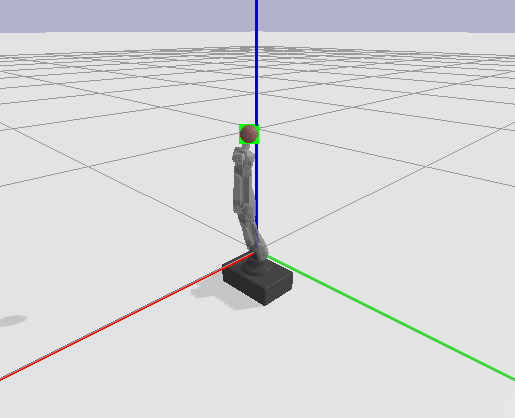
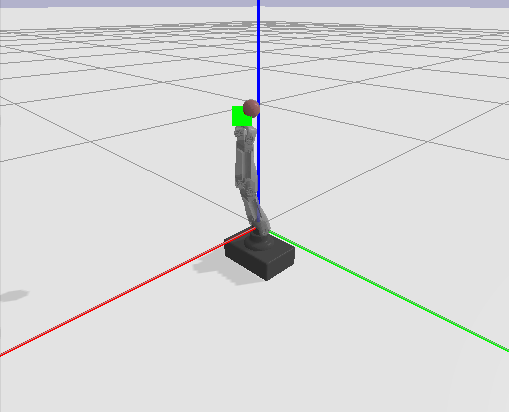
imageupdatevis

diff --git a/ee_evaluate.py b/ee_evaluate.py
@@ -206,7 +206,7 @@ def error_robot_state():
         init_angle=[-0.5, -0.3, -0.5, -0.2])
     
     debug_id = None
-    for idx in max_10_idx:
+    for idx in min_10_idx:
 
         if debug_id is not None:
             p.removeUserDebugItem(debug_id)
@@ -217,7 +217,7 @@ def error_robot_state():
         env.get_obs()
         # draw the ee center, model prediction
         debug_id = p.addUserDebugPoints([c_m[idx]], [[0, 1, 0]], pointSize=20)
-        time.sleep(1)
+        time.sleep(20)
 
 if __name__ == "__main__":
     device = torch.device('cuda' if torch.cuda.is_available() else 'cpu')
@@ -242,7 +242,7 @@ if __name__ == "__main__":
     # evaluate_ee(ee_model=model, env=env)
 
     """read workspace and centers, plot results"""
-    plot_ee()
+    # plot_ee()
 
     """visualize robot state"""
     error_robot_state()
